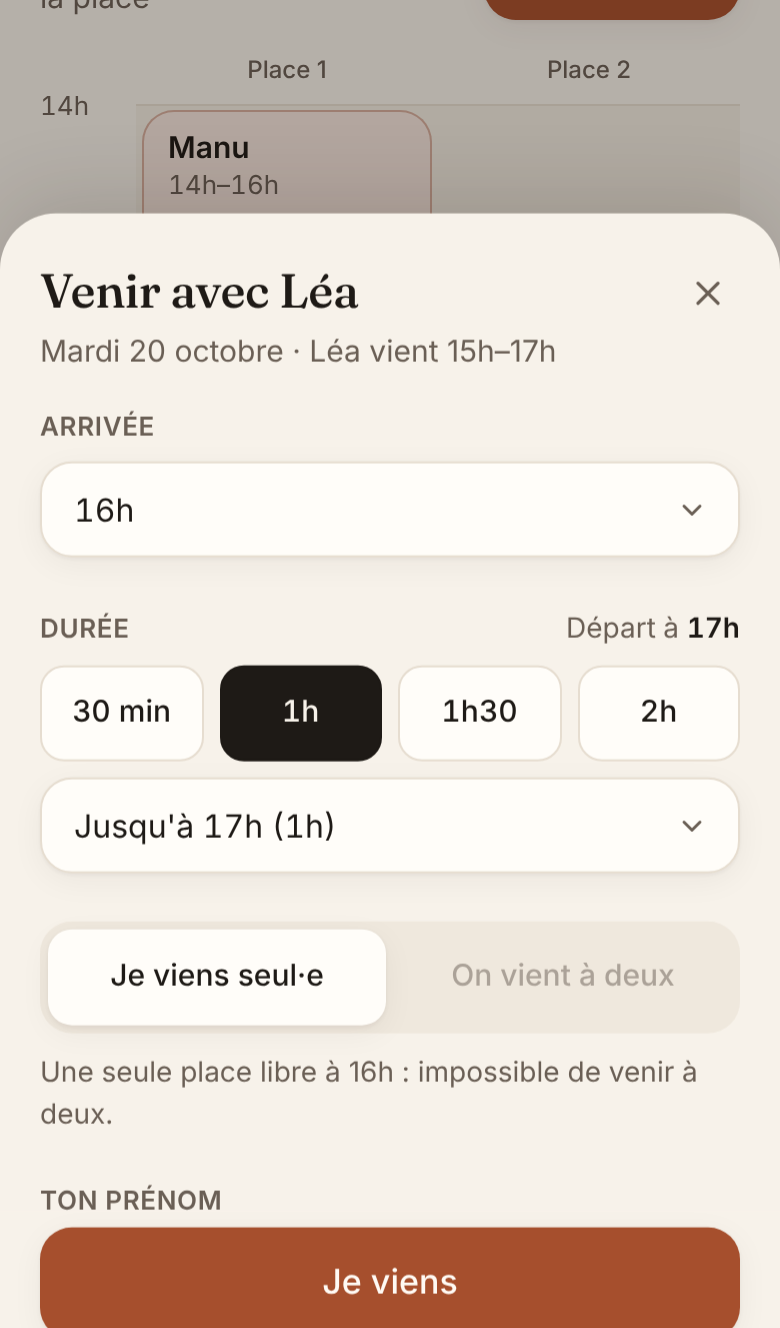
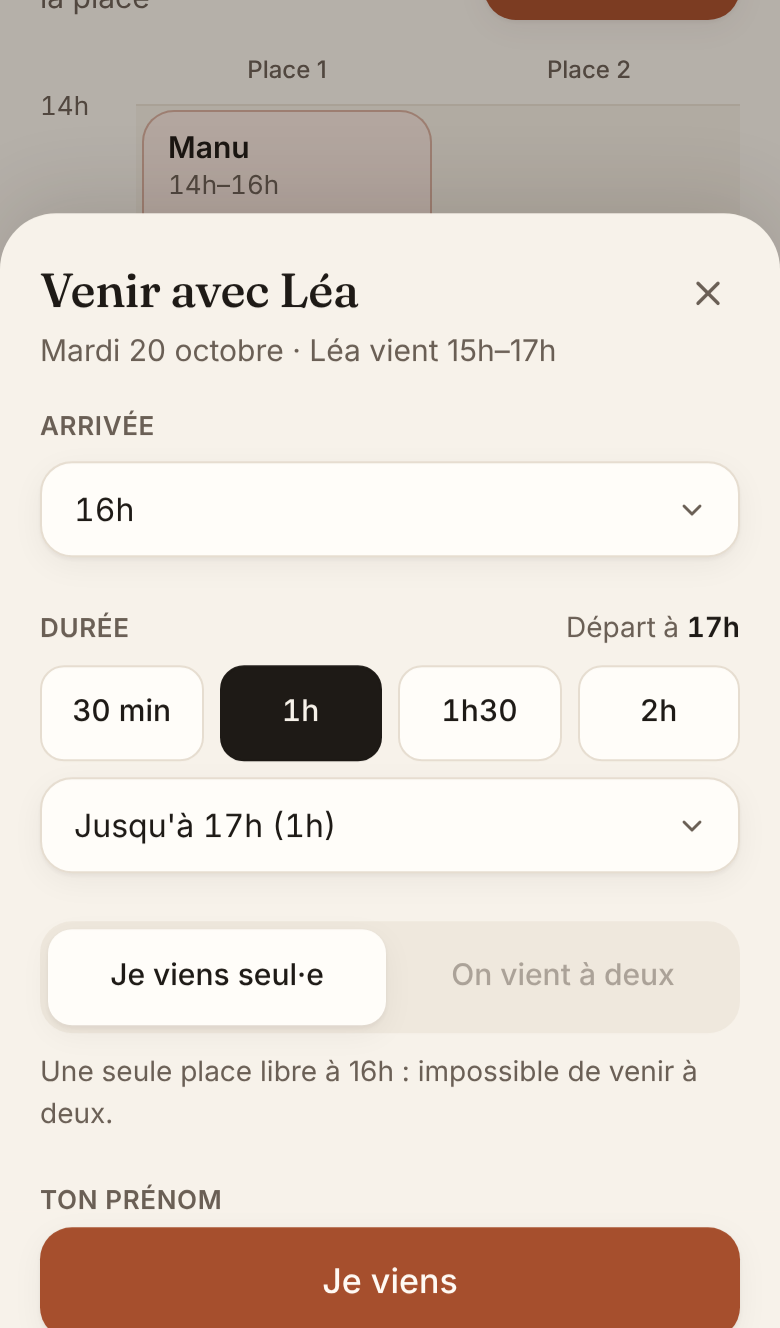
Mise à jour automatique de l'app et diagnostic du déploiement sur l'écran « Presque prêt »
Claude-Session: https://claude.ai/code/session_01R76xSXGCKCM45rabR7dskH

diff --git a/src/screens/SetupScreen.tsx b/src/screens/SetupScreen.tsx
@@ -1,11 +1,33 @@
+/** Affiché quand le build n'a pas trouvé les variables Supabase. Aide à diagnostiquer. */
 export function SetupScreen() {
+  const b = __BUILD_INFO__
+  const at = b.at
+    ? new Intl.DateTimeFormat('fr-FR', { timeZone: 'Europe/Paris', day: 'numeric', month: 'long', hour: '2-digit', minute: '2-digit' }).format(new Date(b.at))
+    : '?'
   return (
-    <main className="mx-auto flex min-h-dvh max-w-lg flex-col justify-center gap-4 px-6">
+    <main className="mx-auto flex min-h-dvh max-w-lg flex-col justify-center gap-5 px-6 py-10">
       <h1 className="text-[32px] font-medium">Presque prêt</h1>
       <p className="text-[16px] leading-relaxed text-muted">
-        L'application n'est pas encore reliée à sa base de données. Ajoute les variables d'environnement Supabase
-        (adresse du projet et clé publique) dans Vercel, puis redéploie. Tout est expliqué dans le README.
+        Cette version de l'application a été construite sans les clés de sa base de données Supabase.
       </p>
+      <ol className="flex list-decimal flex-col gap-2 pl-5 text-[16px] leading-relaxed">
+        <li>Dans Vercel, vérifie que la base Supabase est connectée au projet (onglet Storage).</li>
+        <li>
+          Puis <strong>Deployments → ⋯ → Redeploy</strong> sur le déploiement le plus récent.
+        </li>
+        <li>Une fois le déploiement terminé, recharge cette page deux fois.</li>
+      </ol>
+      <dl className="rounded-2xl border border-line bg-surface p-4 text-[14px] leading-relaxed text-muted">
+        <dt className="font-semibold text-ink">Version</dt>
+        <dd className="mb-2 tabular">
+          {b.sha || 'locale'} · construite le {at}
+        </dd>
+        <dt className="font-semibold text-ink">Variables Supabase vues pendant la construction</dt>
+        <dd className="break-words">{b.vars.length ? b.vars.join(', ') : 'aucune'}</dd>
+        <dd className="mt-1">
+          Adresse : {b.url ? 'trouvée' : 'manquante'} · Clé publique : {b.key ? 'trouvée' : 'manquante'}
+        </dd>
+      </dl>
     </main>
   )
 }

diff --git a/vite.config.ts b/vite.config.ts
@@ -42,18 +42,28 @@ export default defineConfig(({ mode }) => {
   ], /SUPABASE_(PUBLISHABLE|ANON)_KEY$/)
   assertPublicKey(key)
 
+  // Pour diagnostiquer un déploiement : seulement des NOMS de variables, jamais leurs valeurs.
+  const buildInfo = {
+    sha: (env.VERCEL_GIT_COMMIT_SHA ?? '').slice(0, 7),
+    at: new Date().toISOString(),
+    vars: Object.keys(env).filter((k) => /SUPABASE/i.test(k)).sort(),
+    url: Boolean(url),
+    key: Boolean(key),
+  }
+
   return {
     define: {
       __SUPABASE_URL__: JSON.stringify(url),
       __SUPABASE_KEY__: JSON.stringify(key),
       __REALTIME__: JSON.stringify(env.VITE_REALTIME !== 'off'),
+      __BUILD_INFO__: JSON.stringify(buildInfo),
     },
     plugins: [
       react(),
       tailwindcss(),
       VitePWA({
         registerType: 'autoUpdate',
-        injectRegister: 'script-defer',
+        injectRegister: false,
         includeAssets: ['favicon.svg', 'apple-touch-icon.png', 'robots.txt'],
         manifest: {
           name: 'Visites',

diff --git a/src/main.tsx b/src/main.tsx
@@ -2,6 +2,20 @@ import { StrictMode } from 'react'
 import { createRoot } from 'react-dom/client'
 import './index.css'
 import App from './App'
+import { registerSW } from 'virtual:pwa-register'
+
+// Mise à jour automatique : dès qu'une nouvelle version est en ligne, la page se recharge.
+registerSW({
+  immediate: true,
+  onRegisteredSW(_url, reg) {
+    if (!reg) return
+    const check = () => void reg.update().catch(() => {})
+    window.setInterval(check, 30 * 60_000)
+    document.addEventListener('visibilitychange', () => {
+      if (document.visibilityState === 'visible') check()
+    })
+  },
+})
 
 createRoot(document.getElementById('root')!).render(
   <StrictMode>

diff --git a/src/vite-env.d.ts b/src/vite-env.d.ts
@@ -4,3 +4,4 @@
 declare const __SUPABASE_URL__: string
 declare const __SUPABASE_KEY__: string
 declare const __REALTIME__: boolean
+declare const __BUILD_INFO__: { sha: string; at: string; vars: string[]; url: boolean; key: boolean }
